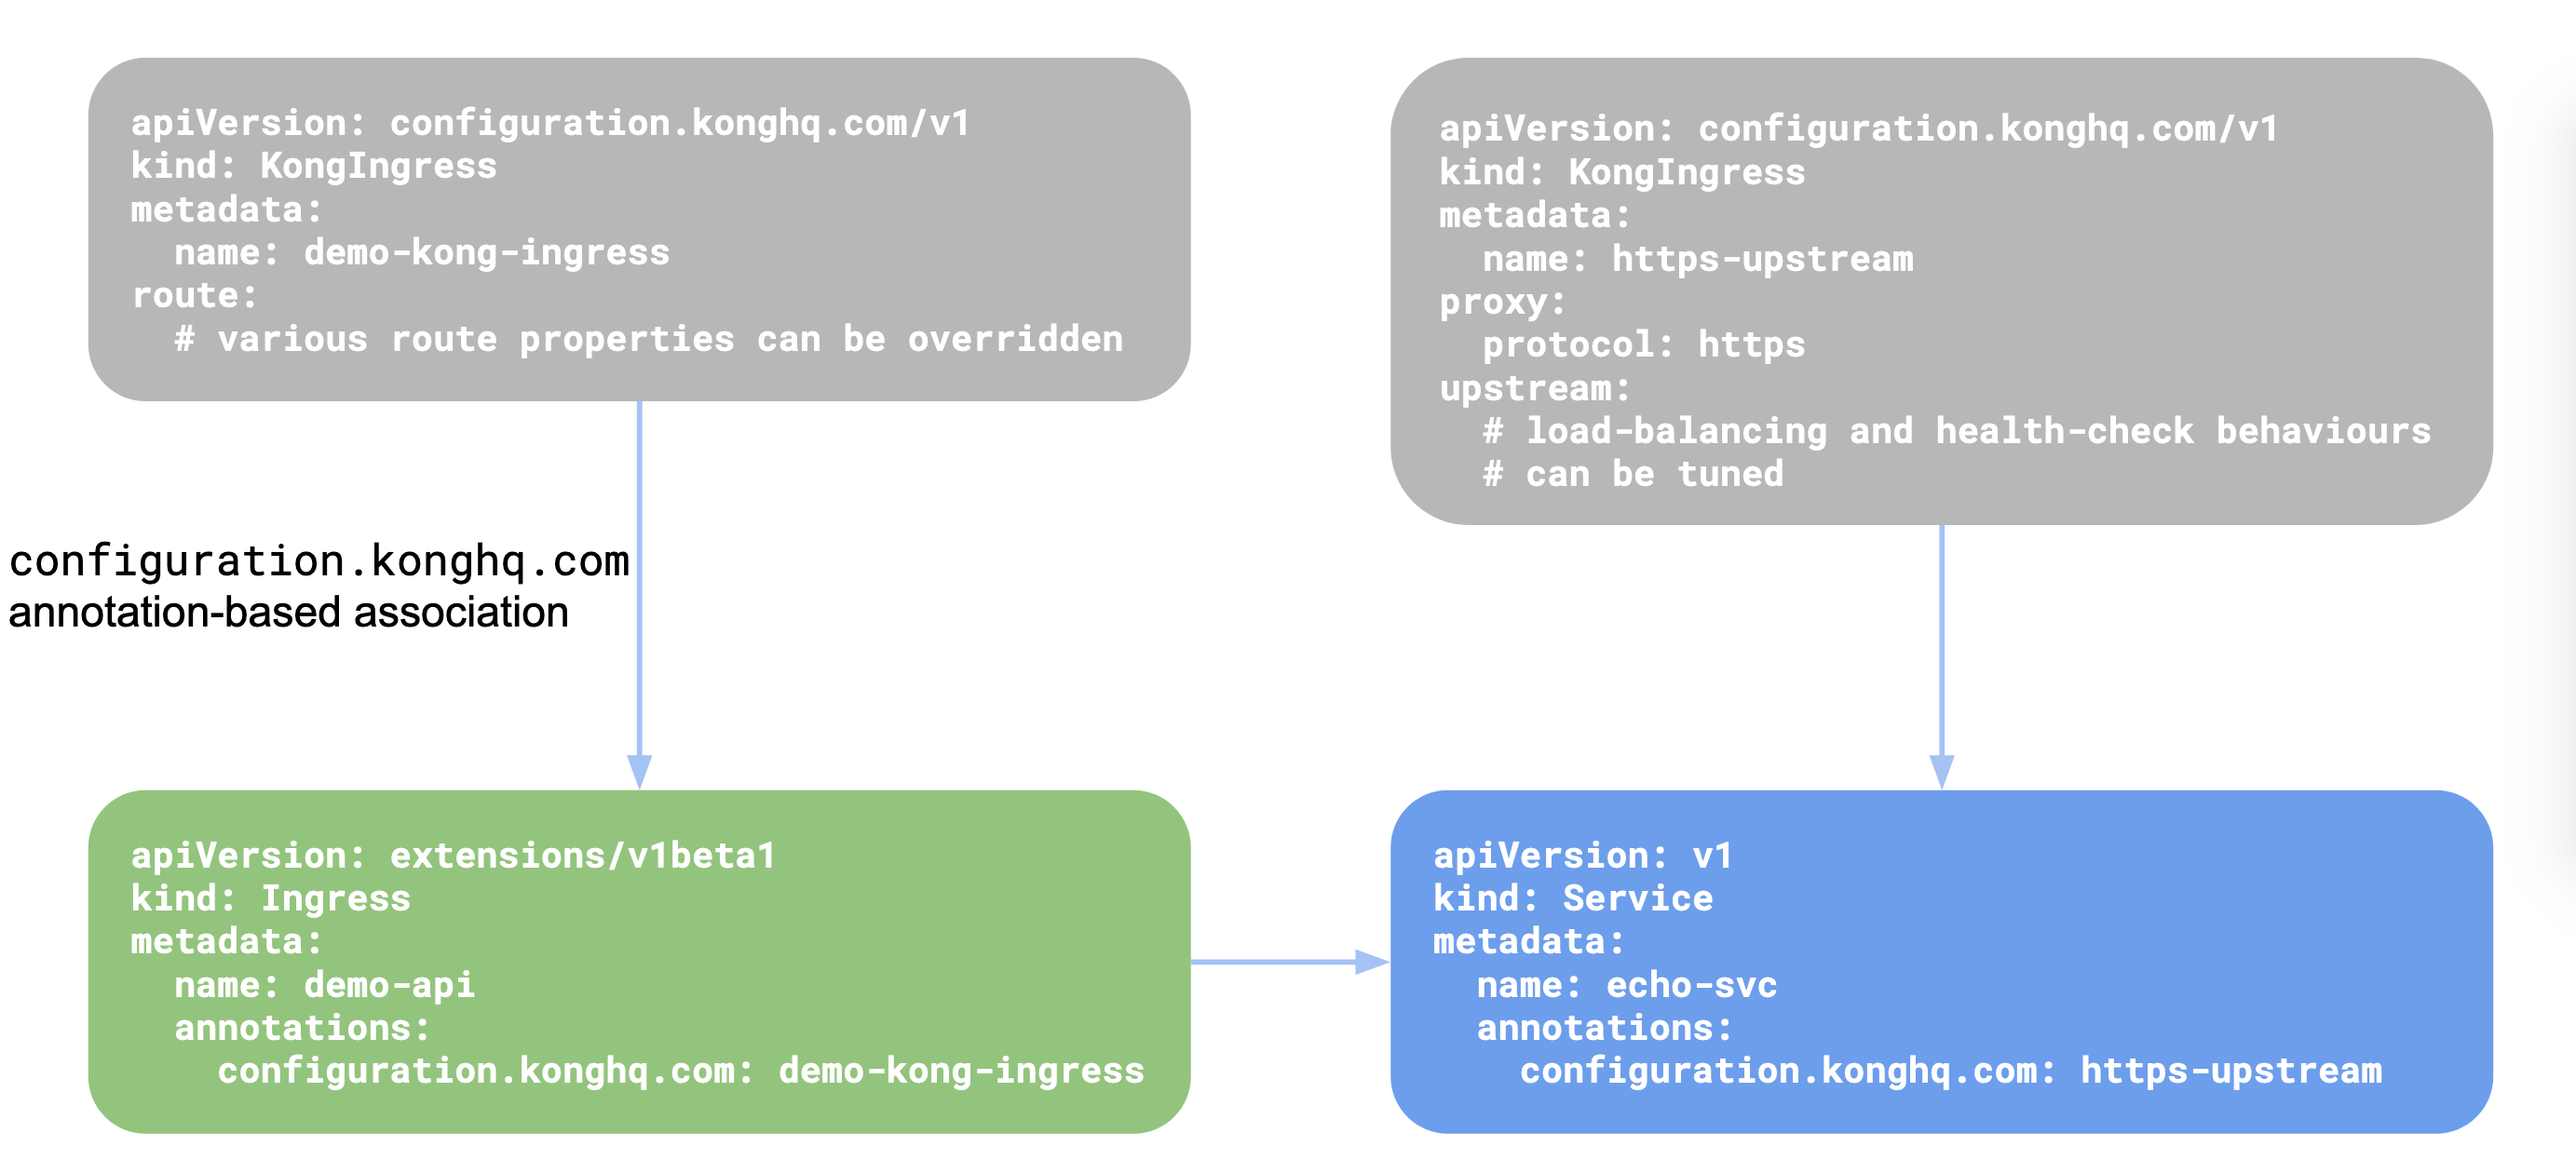
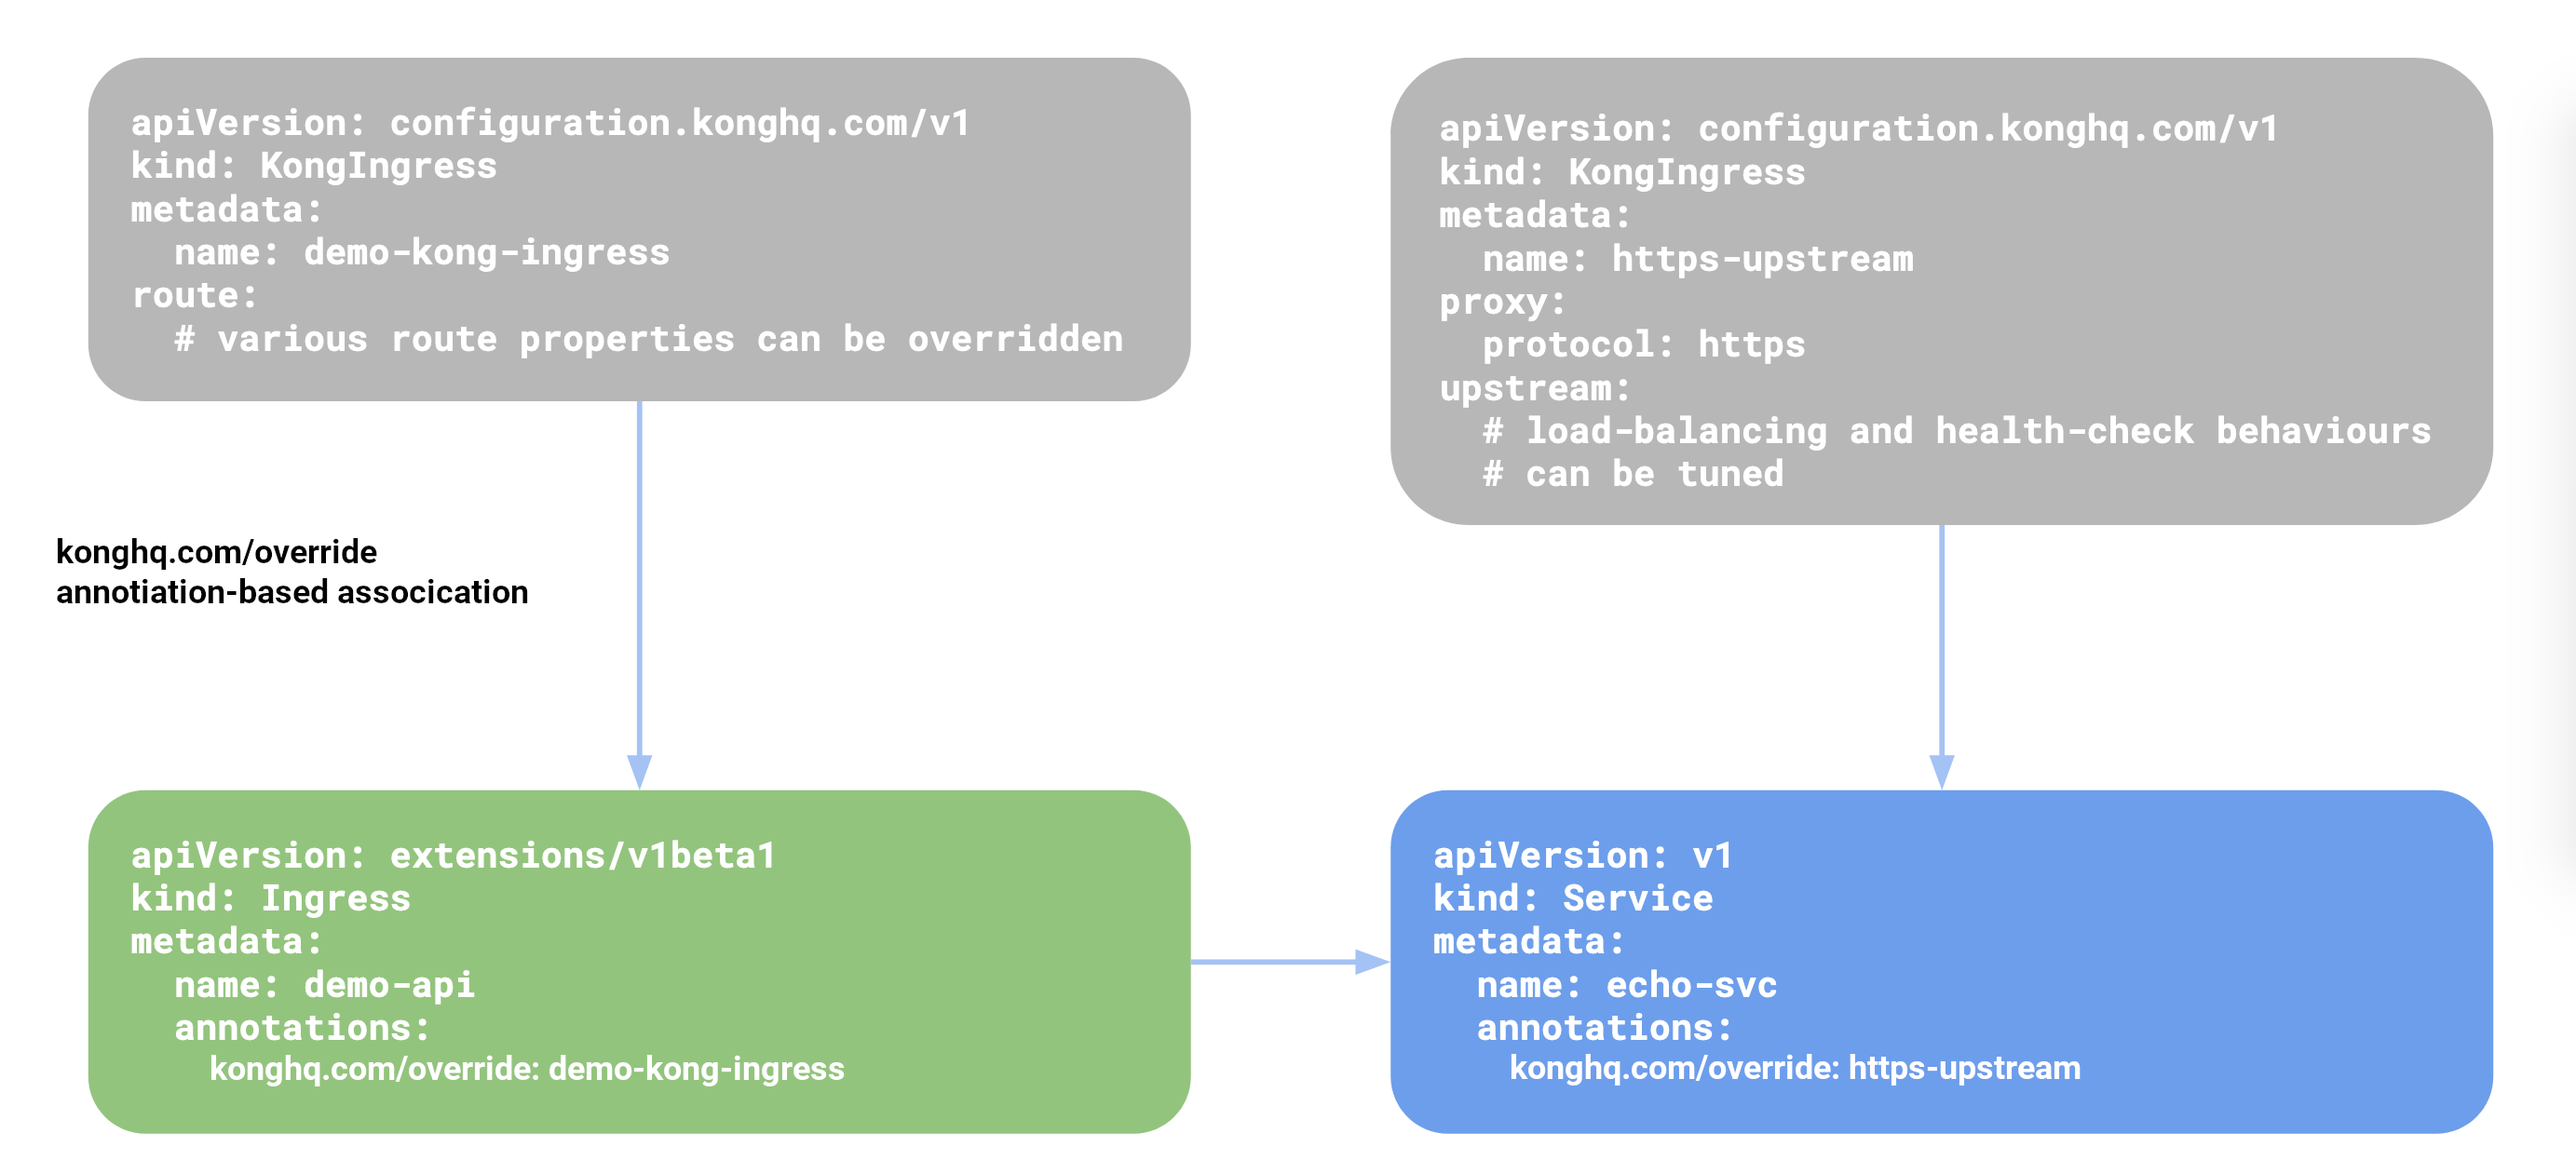
Fixed some leftover annotations from configuration.konghq.con to konghq.com/override

Changed region(s): [[0.0, 0.4575, 0.2487, 0.549], [0.0622, 0.9149, 0.4353, 0.9454], [0.5907, 0.9149, 0.9328, 0.9454]]

diff --git a/docs/guides/using-kongingress-resource.md b/docs/guides/using-kongingress-resource.md
@@ -197,7 +197,7 @@ kongingress.configuration.konghq.com/demo-customization created
 Now, let's associate this KongIngress resource to the echo service.
 
 ```bash
-$ kubectl patch service echo -p '{"metadata":{"annotations":{"configuration.konghq.com":"demo-customization"}}}'
+$ kubectl patch service echo -p '{"metadata":{"annotations":{"konghq.com/override":"demo-customization"}}}'
 service/echo patched
 ```
 

diff --git a/docs/references/custom-resources.md b/docs/references/custom-resources.md
@@ -227,7 +227,7 @@ Once a `KongIngress` resource is created, it needs to be associated with
 an Ingress or Service resource using the following annotation:
 
 ```yaml
-configuration.konghq.com: kong-ingress-resource-name
+konghq.com/override: kong-ingress-resource-name
 ```
 
 Specifically,
